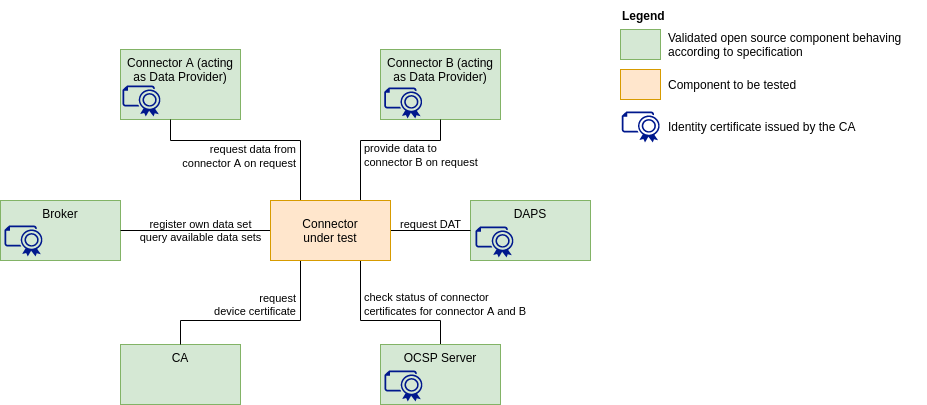
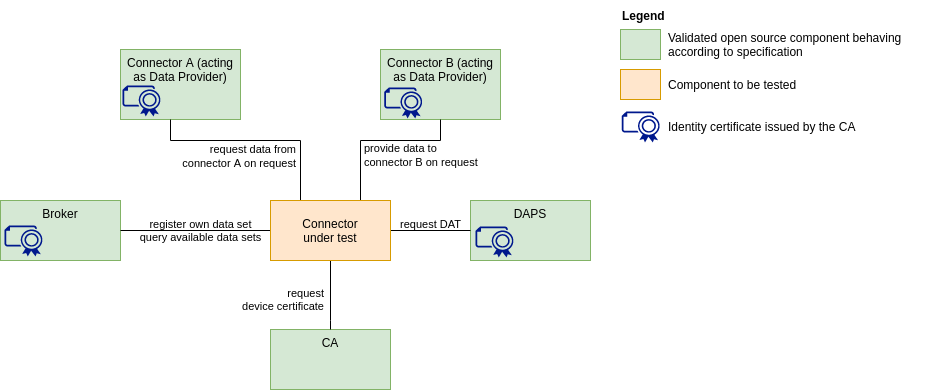
Updated Testbed version

diff --git a/Testbed_versions.md b/Testbed_versions.md
@@ -1,24 +1,21 @@
 # Versions of Testbed
 
-## First version of the testbed
+## Version 1.0 of the test bed
 
-Minimal viable data space with essential and already available components
+Absolute minimum with essential and already available components
 ![first_version](./pictures/Testbed_1.0.png)
 
-## Next version of the testbed
+## Version 1.1 of the test bed
 
-Minimal viable data space with all intended components
+Minimal viable data space with all essential components and first test cases
+![next_version](./pictures/Testbed_1.1.png)
+
+## Version 1.X of the test bed
+
+Integration of all intended components into the setup
 ![next_version](./pictures/Testbed_1.X.png)
 
 ## Final vision for the testbed
 
 On the long run, the testbed should be equipped with a test suite and testing components replacing the  open source reference implementations of the components.
 ![vision](./pictures/Testbed_vision.png)
-
-## Feedback
-First version of the testbed:
-* Change connector B's text for clarity: Connector B (acting as Data Consumer) -> solved
-* How does the OSCP Server implementation look? Is this something new to be installed for this current testbed? -> an OCSP provider is typically a part of the CA offering, the purpose is to enable revocation of issued certificates by offering a server with which an online status check can be conducted
-
-Final vision for the testbed:
-* We should add the AppStore to the final vision of the testbed as part of the IDSA infrastructure -> solved
